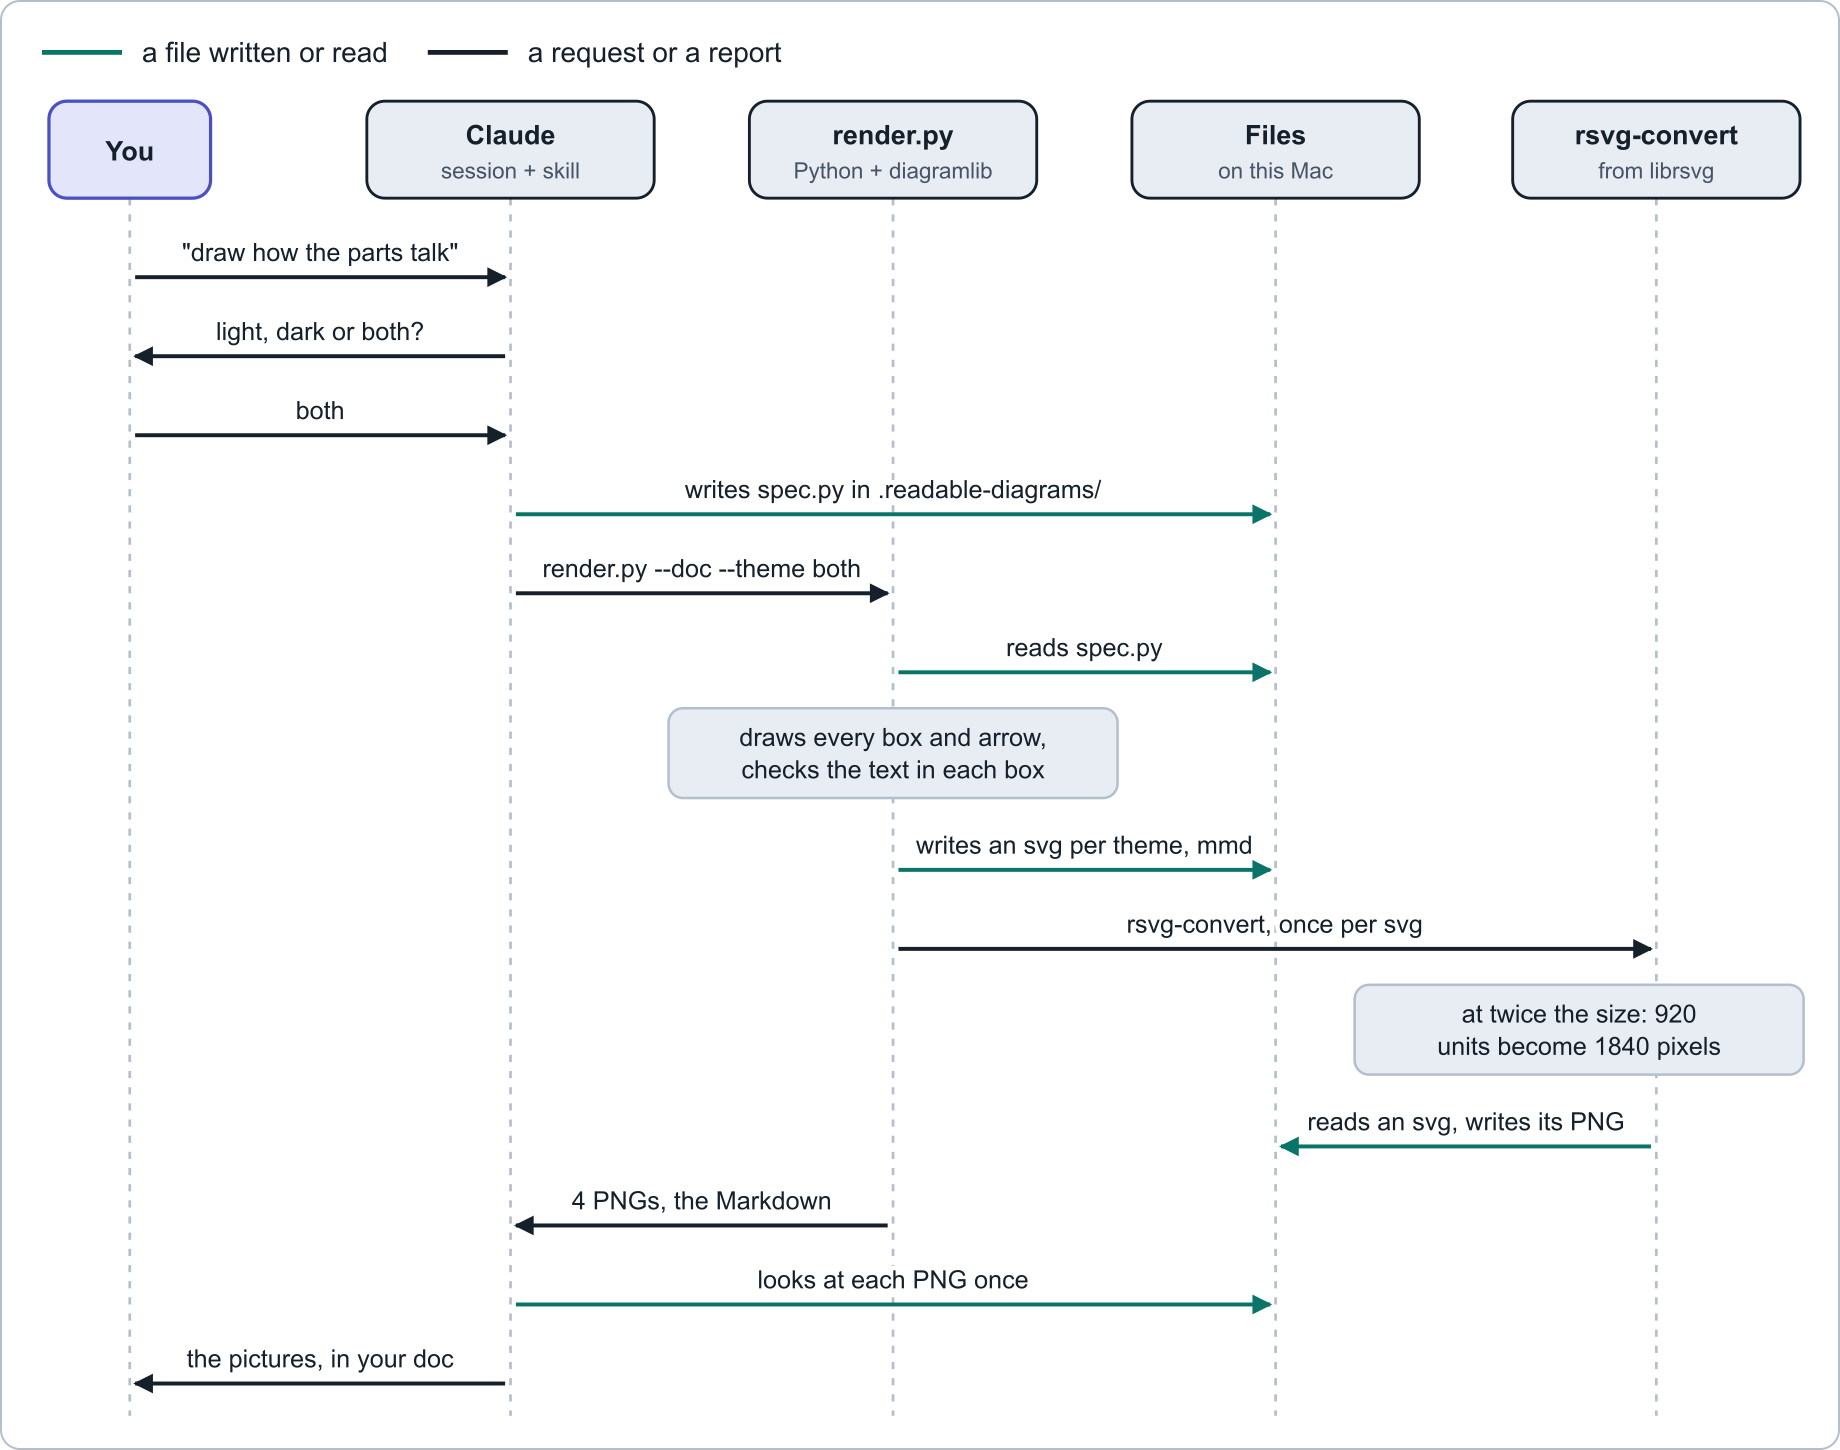
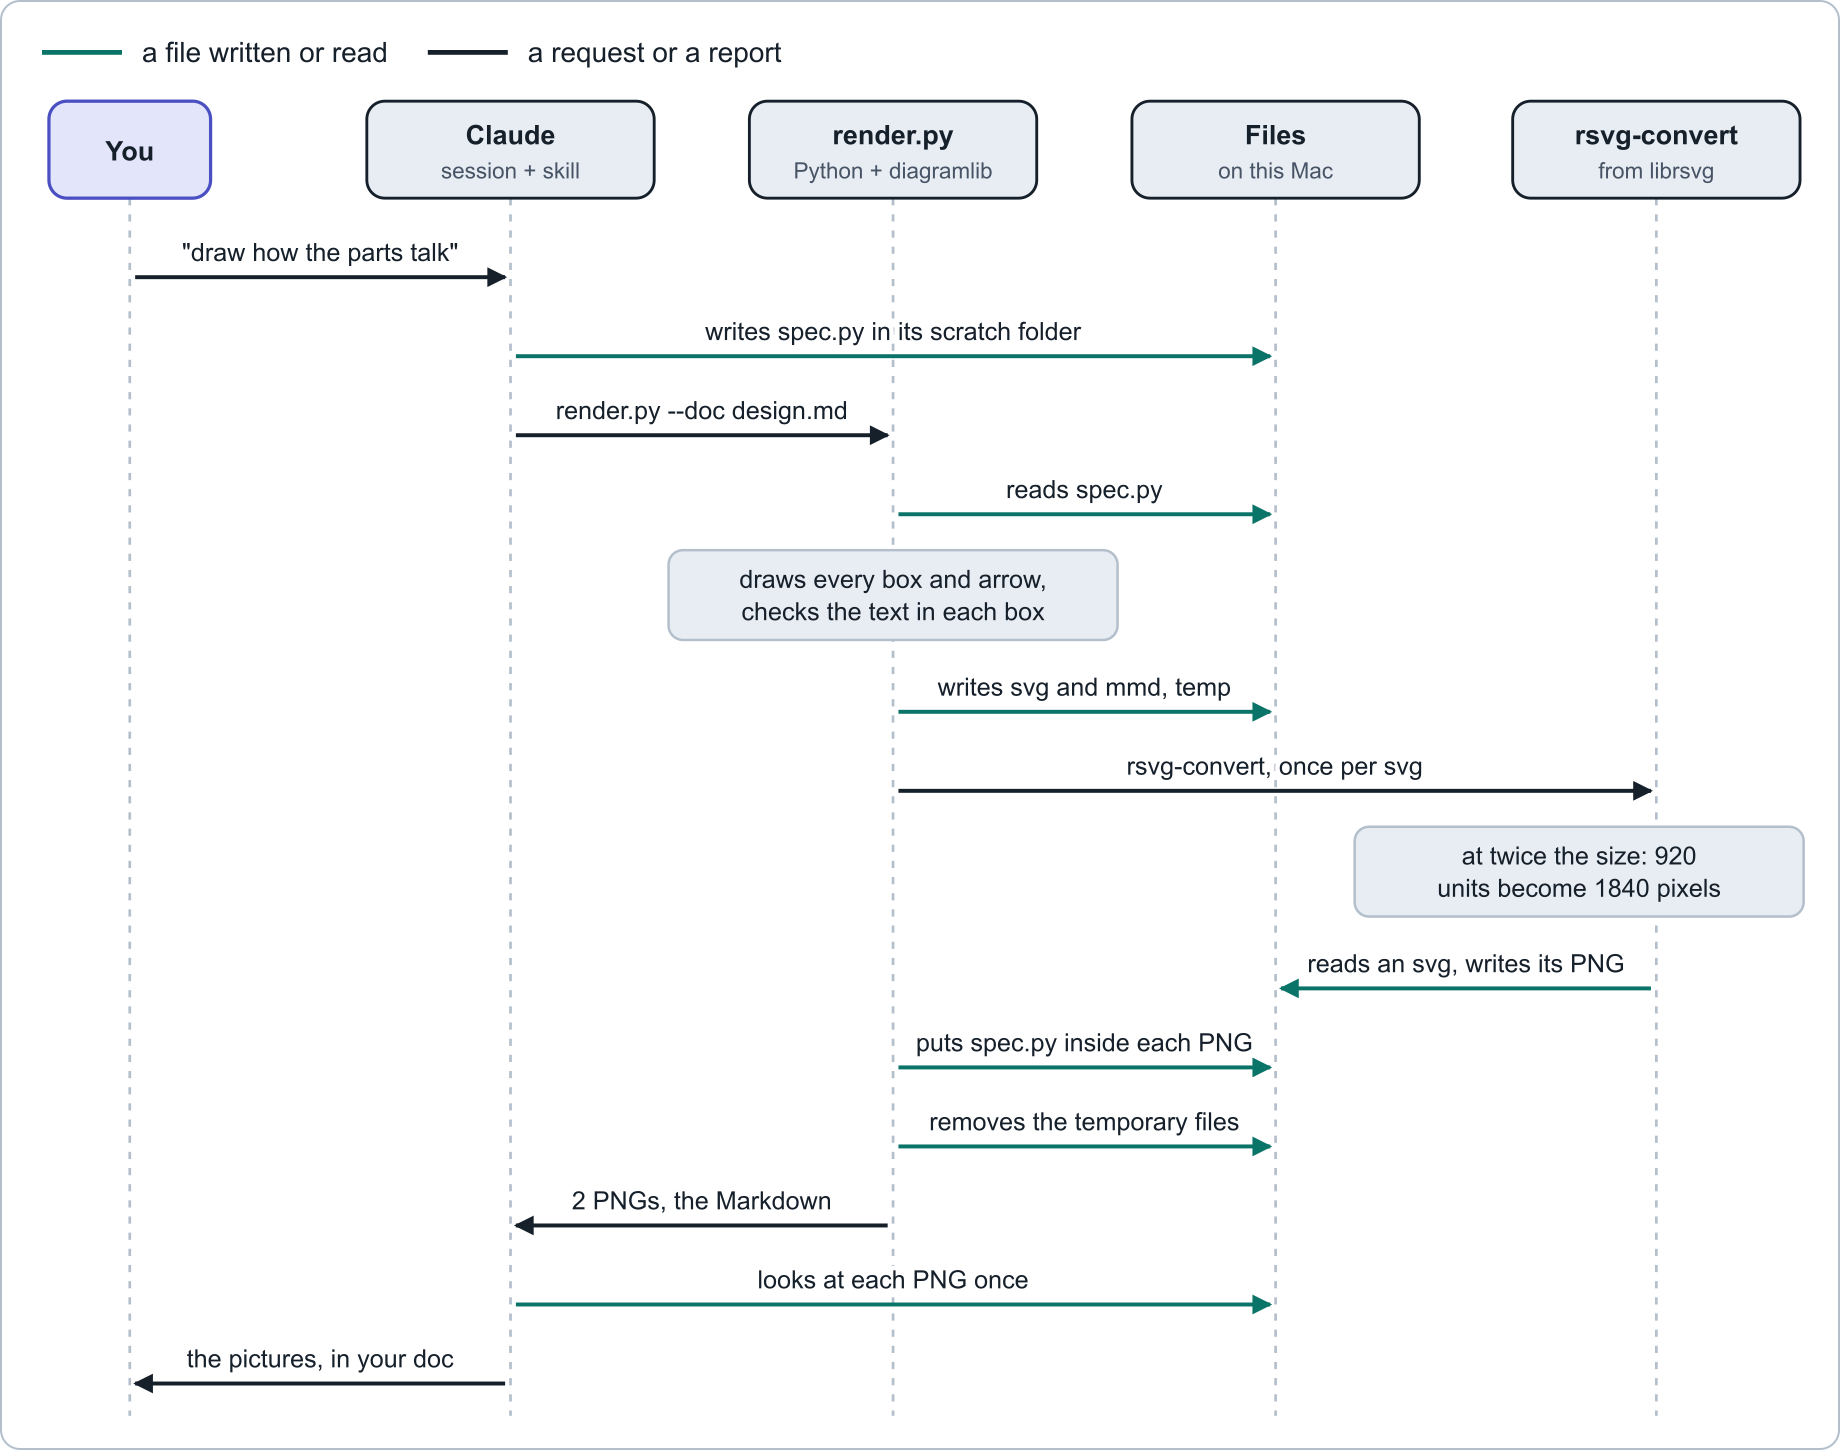
readable-diagrams: redraw the sample pictures for the new flow
The four sample pictures were drawn by the real rsvg-convert 2.63.4
from the updated sample spec: no .readable-diagrams folder, no light-or-
dark question, readable-diagrams/design/ for the PNGs. Each now carries
the sample spec inside. Sizes are unchanged (1840 x 846 and 1840 x 1450).

Tests: 78, 0 fail and 0 skipped on Python 3.9 and 3.14 (76 before, with
one skipped for want of rsvg-convert). The real-PNG test now uses a PNG
Mermaid drew, since the sample pictures already hold a spec. New: the
four sample pictures must carry the current sample spec, so an edit to
sample/spec.py fails until they are drawn again.

A real export of a doc in a temporary project was checked end to end:
both themes with --keep-svg, then light without it. 1840 pixels wide, one
spec chunk each, spec identical, no temporary folder left, stale files
removed.

Not redrawn: the four Mermaid comparison pictures (*-mermaid*.png). They
show Mermaid's own layout of the old flow text, and redrawing them needs
Mermaid's tool.

Removes: nothing.

Claude-Session: https://claude.ai/code/session_01R9iLv4WmUbea3SjdBefAiD

diff --git a/skills/readable-diagrams/scripts/tests/test_embed_spec.py b/skills/readable-diagrams/scripts/tests/test_embed_spec.py
@@ -16,7 +16,9 @@ from tests.pngs import chunks_of, png_chunk, tiny_png  # noqa: E402
 
 SKILL = os.path.dirname(SCRIPTS)
 SAMPLE_SPEC = os.path.join(SKILL, "sample", "spec.py")
-SAMPLE_PNG = os.path.join(SKILL, "sample", "diagrams", "data-flow.png")
+SAMPLE_DIAGRAMS = os.path.join(SKILL, "sample", "diagrams")
+MERMAID_PNG = os.path.join(SAMPLE_DIAGRAMS, "data-flow-mermaid.png")
+SAMPLE_PICTURES = ("data-flow.png", "data-flow-dark.png", "build-sequence.png", "build-sequence-dark.png")
 TOOL = os.path.join(SCRIPTS, "embed_spec.py")
 SPEC_KEYWORD = b"readable-diagrams-spec"
 
@@ -148,22 +150,39 @@ class FileTest(unittest.TestCase):
 
 
 class RealPngTest(unittest.TestCase):
-    def test_a_png_that_rsvg_convert_drew_takes_the_sample_spec_and_keeps_its_pixels(self):
+    def test_a_real_png_without_a_spec_takes_the_sample_spec_and_keeps_its_pixels(self):
+        # Mermaid drew this one, not the skill: a real file from another PNG encoder, with no spec in it.
         with tempfile.TemporaryDirectory() as tmp:
-            png = os.path.join(tmp, "data-flow.png")
-            shutil.copy(SAMPLE_PNG, png)
+            png = os.path.join(tmp, "data-flow-mermaid.png")
+            shutil.copy(MERMAID_PNG, png)
             spec = embed_spec.read_text(SAMPLE_SPEC)
             with open(png, "rb") as handle:
                 before = chunks_of(handle.read())
-            embed_spec.embed_file(png, spec)
+            self.assertTrue(embed_spec.embed_file(png, spec))
             with open(png, "rb") as handle:
                 data = handle.read()
         after = chunks_of(data)
         self.assertEqual(before[:-1], after[:-2])
-        self.assertEqual((b"IEND",), tuple(kind for kind, _ in after[-1:]))
+        self.assertEqual(before[-1], after[-1])
         self.assertEqual(len(before) + 1, len(after))
         self.assertEqual(spec, embed_spec.extract(data))
-        self.assertEqual(1840, struct.unpack(">II", data[16:24])[0])
+
+    def test_the_sample_pictures_carry_the_current_sample_spec(self):
+        # Edit sample/spec.py and these fail until the four pictures are drawn again: render.py puts the spec in them.
+        spec = embed_spec.read_text(SAMPLE_SPEC)
+        for name in SAMPLE_PICTURES:
+            with self.subTest(picture=name), open(os.path.join(SAMPLE_DIAGRAMS, name), "rb") as handle:
+                self.assertEqual([spec], embed_spec.specs_in(handle.read()))
+
+    def test_embedding_the_spec_a_sample_picture_already_holds_writes_nothing(self):
+        with tempfile.TemporaryDirectory() as tmp:
+            png = os.path.join(tmp, "data-flow.png")
+            shutil.copy(os.path.join(SAMPLE_DIAGRAMS, "data-flow.png"), png)
+            with open(png, "rb") as handle:
+                before = handle.read()
+            self.assertFalse(embed_spec.embed_file(png, embed_spec.read_text(SAMPLE_SPEC)))
+            with open(png, "rb") as handle:
+                self.assertEqual(before, handle.read())
 
 
 class CommandLineTest(unittest.TestCase):

diff --git a/skills/readable-diagrams/HOW-IT-WORKS.md b/skills/readable-diagrams/HOW-IT-WORKS.md
@@ -340,7 +340,7 @@ The two skill pictures on this page are such blocks. Their PNGs sit in `sample/d
 | `scripts/doctor.sh` | bash | Checks the Mac: Python, `rsvg-convert` and the fonts |
 | `scripts/example_spec.py` | Python | A bigger example: one data flow and two sequences |
 | `scripts/tests/test_diagramlib.py` | Python | 53 tests: the example and the sample build, each SVG is complete on its own in both themes, the checks refuse what they should, `box_height` is the least height a box accepts, an elbow bends where it should and a diagonal is refused, a zone subtitle stays clear of its title, the doctor names `rsvg-convert`, a theme change removes the other theme's pictures, a doc gets its pictures in `readable-diagrams/<doc name>/`, light by default, with no build file kept unless `--keep-svg` is given, each PNG carries its spec once, and the Markdown fits one theme or both |
-| `scripts/tests/test_embed_spec.py` | Python | 23 tests: the spec comes back byte for byte, every other chunk stays untouched, a second embed replaces the first, a PNG that already holds the spec is not written, a PNG that holds two specs ends with one, and a file that is not a PNG gets a plain message |
+| `scripts/tests/test_embed_spec.py` | Python | 25 tests: the spec comes back byte for byte, every other chunk stays untouched, a second embed replaces the first, a PNG that already holds the spec is not written, a PNG that holds two specs ends with one, a real PNG from another encoder takes the spec, the four sample pictures carry the current sample spec, and a file that is not a PNG gets a plain message |
 | `scripts/tests/pngs.py` | Python | A PNG small enough to build by hand, for the tests that need a real one |
 | `references/layout.md` | Markdown | Coordinates and sizes for laying out a new diagram |
 | `sample/` | Python and PNG | The spec and pictures this page walks through |

diff --git a/skills/readable-diagrams/SKILL.md b/skills/readable-diagrams/SKILL.md
@@ -72,7 +72,7 @@ These are not decoration. Each one came from something that made a picture hard 
 | `scripts/embed_spec.py` | Puts a spec inside a PNG as a `tEXt` chunk and gets it back: `embed PNG SPEC.py` reads before it writes and a PNG never holds two specs; `extract PNG > spec.py` prints the spec byte for byte |
 | `scripts/doctor.sh` | Checks Python, `rsvg-convert` and the fonts; names the Homebrew command for anything missing |
 | `scripts/tests/test_diagramlib.py` | Builds the example and the sample, checks each SVG is well-formed and complete on its own, checks the width and height rules refuse what they should, and checks a doc gets its pictures in `readable-diagrams/<doc name>/`, light by default, each carrying its spec once, with no build file kept |
-| `scripts/tests/test_embed_spec.py` | Checks the spec comes back byte for byte, the pixels and every other chunk stay untouched, a second embed replaces the first, a PNG that already holds the spec is not written, and a file that is not a PNG gets a plain message |
+| `scripts/tests/test_embed_spec.py` | Checks the spec comes back byte for byte, the pixels and every other chunk stay untouched, a second embed replaces the first, a PNG that already holds the spec is not written, the four sample pictures carry the current sample spec, and a file that is not a PNG gets a plain message |
 | `references/layout.md` | The coordinate cookbook: where the rows sit in the example, and how to adapt them to two, three or four machines |
 | `HOW-IT-WORKS.md` | For people: the whole process, step by step, built around the sample |
 | `sample/` | A small spec and the pictures it makes: the skill's own pipeline, drawn by the skill |
